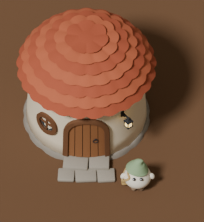
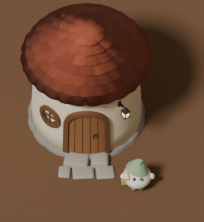
feat: cottage rework - taller walls, tile-like shingles, field-stone steps
Wall 2.1 m / roof 2.8 m wide and 0.85 m high so walls and door gain area
under the 50 degree camera; flatter tile tongues with per-tile terracotta
variation; exact dome normals on the roof cap; tapered, uneven step stones.

Claude-Session: https://claude.ai/code/session_019bN8vgtbadsSWB4L1po9wd

diff --git a/art/generators/bldg_cottage.py b/art/generators/bldg_cottage.py
@@ -69,8 +69,8 @@ except ImportError:  # pragma: no cover - outside Blender
 
 CONFIG = {
     # Walls: round plaster drum, slightly flared at the foot.
-    "wall_diameter": 2.6,          # at the top of the wall
-    "wall_height": 1.8,            # ground to where the roof sits on the wall
+    "wall_diameter": 2.4,          # at the top of the wall
+    "wall_height": 2.1,            # ground to where the roof sits on the wall
     "wall_base_flare": 0.05,       # extra diameter (fraction) at ground level
     "wall_segments": 64,
     "wall_rows": 4,
@@ -83,23 +83,23 @@ CONFIG = {
     # Roof: overhanging dome of shingle rings with rounded tile tongues.
     # The 50 degree game camera looks over the eave: the door crown stays visible
     # only while the eave hangs higher than about overhang * tan(50 deg) above it.
-    "roof_eave_diameter": 3.0,     # dome base, without the shingle lip
+    "roof_eave_diameter": 2.8,     # dome base, without the shingle lip
     "roof_eave_drop": 0.03,        # dome base sits this far below the wall top
     "roof_eave_slope_deg": 22.0,   # dome parameter at the eave: 0 = vertical skirt, higher = flatter eave
-    "roof_height": 1.0,            # dome base to apex
+    "roof_height": 0.85,           # dome base to apex
     "roof_shape_exponent": 2.0,    # superellipse: 2 = ellipse, higher = fuller shoulder
     "roof_rings": 7,
     "roof_cap_fraction": 0.1,      # share of the profile length kept as a smooth top cap
-    "roof_lip": 0.07,              # each ring's lower edge stands out this far (at a tile centre)
-    "roof_tile_bulge": 0.7,        # share of the lip lost towards the joints -> visible single tiles
+    "roof_lip": 0.09,              # each ring's lower edge stands out this far (at a tile centre)
+    "roof_tile_bulge": 0.35,        # share of the lip lost towards the joints -> visible single tiles
     "roof_tuck": 0.04,             # the next ring starts this far up under the lip
-    "roof_tile_width": 0.38,       # target tile width along a ring's lower edge
-    "roof_scallop": 0.05,          # tile tongues hang this far below the joints
-    "roof_eave_thickness": 0.06,
+    "roof_tile_width": 0.32,       # target tile width along a ring's lower edge
+    "roof_scallop": 0.025,         # tile tongues hang this far below the joints
+    "roof_eave_thickness": 0.1,
     "roof_segments": 96,
     # Arched plank door towards the front.
     "door_width": 0.8,             # visible leaf width
-    "door_height": 1.15,           # visible sill to arch crown
+    "door_height": 1.3,            # visible sill to arch crown
     "door_arch_rise": 0.4,         # = door_width / 2 -> round arch
     "door_planks": 5,
     "door_plank_gap": 0.016,
@@ -108,7 +108,7 @@ CONFIG = {
     "door_backing_recess": 0.012,  # dark backing between the planks sits this far behind them
     "door_ring_diameter": 0.13,
     "door_ring_tube": 0.02,
-    "door_ring_height": 0.58,      # stud above the sill
+    "door_ring_height": 0.64,      # stud above the sill
     "door_ring_offset": 0.2,       # from the door centre towards the latch side (+X)
     "door_sill_gap": 0.006,        # air between upper step and door/frame
     # Wooden frame around the door opening.
@@ -118,7 +118,7 @@ CONFIG = {
     "frame_arch_samples": 18,
     # Round window with a cross (viewer's left).
     "window_azimuth_deg": -42.0,
-    "window_center_height": 0.92,
+    "window_center_height": 1.08,
     "window_opening_diameter": 0.38,  # visible glass
     "window_frame_width": 0.075,
     "window_frame_proud": 0.07,
@@ -128,7 +128,7 @@ CONFIG = {
     "window_samples": 32,
     # Wall lantern on an iron bracket (viewer's right).
     "lantern_azimuth_deg": 38.0,
-    "lantern_mount_height": 1.3,
+    "lantern_mount_height": 1.55,
     "lantern_arm_length": 0.27,
     "lantern_arm_thickness": 0.03,
     "lantern_glass": (0.12, 0.12, 0.15),   # x, y, z
@@ -138,14 +138,16 @@ CONFIG = {
     "step_rise": 0.09,
     "step_depth": 0.3,
     "step_widths": (1.3, 1.05),
-    "step_stone_splits": ((0.3, 0.38, 0.32), (0.55, 0.45)),  # fractions of the step width
+    "step_stone_splits": ((0.24, 0.41, 0.35), (0.58, 0.42)),  # fractions of the step width
     "step_gap": 0.015,
     "step_bury": 0.16,             # upper step reaches this far into the wall
     "step_tuck": 0.06,             # lower steps reach this far under the step above
-    "step_bevel": 0.03,
-    "step_height_jitter": 0.02,    # stones only sink, never rise towards the door
-    "step_front_jitter": 0.03,
-    "step_yaw_jitter_deg": 7.0,
+    "step_bevel": 0.04,
+    "step_height_jitter": 0.035,   # stones only sink, never rise towards the door
+    "step_front_jitter": 0.06,
+    "step_yaw_jitter_deg": 10.0,
+    "step_top_taper": (0.80, 0.92),  # top face shrinks to this share of the foot -> rounded field stones
+    "step_top_wobble": 0.018,      # top corners sink by up to this much
     # Mesh budget and shading.
     "triangle_budget": 8000,       # art/PIPELINE.md section 7
     "smooth_angle_deg": 45.0,      # edges sharper than this stay crisp
@@ -174,8 +176,9 @@ CONFIG = {
     # albedo_color; converted to linear for Blender and the GLB.
     "colors": {
         "plaster_cream": (0.93, 0.88, 0.78, 1.0),
-        "roof_terracotta": (0.68, 0.33, 0.22, 1.0),
-        "roof_terracotta_alt": (0.74, 0.39, 0.26, 1.0),
+        "roof_terracotta": (0.63, 0.31, 0.21, 1.0),
+        "roof_terracotta_alt": (0.67, 0.34, 0.23, 1.0),
+        "roof_terracotta_dark": (0.59, 0.28, 0.19, 1.0),
         "roof_underside": (0.36, 0.17, 0.11, 1.0),
         "wood_door": (0.56, 0.37, 0.22, 1.0),
         "wood_dark": (0.24, 0.15, 0.09, 1.0),
@@ -209,7 +212,8 @@ SEPARATE_PARTS = (
 )
 
 # Roof material slots.
-ROOF_MAT_A, ROOF_MAT_B, ROOF_MAT_UNDER = 0, 1, 2
+ROOF_MAT_A, ROOF_MAT_B, ROOF_MAT_UNDER, ROOF_MAT_DARK = 0, 1, 2, 3
+ROOF_TILE_MATERIALS = (ROOF_MAT_A, ROOF_MAT_B, ROOF_MAT_DARK)
 
 
 # ---------------------------------------------------------------------------
@@ -380,8 +384,9 @@ def step_stones(config: dict, dims: dict) -> list:
 def roof_rows(config: dict, dims: dict) -> list:
     """Roof as rows of points from apex to the hidden underside centre.
 
-    Returns ``(material_index, points)`` per row; the material belongs to the
-    band between the previous row and this one. Rows are single points (apex,
+    Returns ``(material, points)`` per row; the material belongs to the band
+    between the previous row and this one - one index, or one per segment
+    (tile rows: each tile gets one of ``ROOF_TILE_MATERIALS``). Rows are single points (apex,
     underside centre) or rings of ``roof_segments`` points.
     """
     segments = config["roof_segments"]
@@ -420,7 +425,11 @@ def roof_rows(config: dict, dims: dict) -> list:
         r_bottom = roof_profile_at(table, s_bottom)[0]
         tiles = max(5, round(2.0 * math.pi * r_bottom / config["roof_tile_width"]))
         phase = 0.5 * math.pi * (k % 2)
-        material = ROOF_MAT_A if k % 2 == 0 else ROOF_MAT_B
+        material = []
+        for j in range(segments):
+            phi_mid = 2.0 * math.pi * (j + 0.5) / segments
+            tile = math.floor((tiles * phi_mid / 2.0 + phase) / math.pi) % tiles
+            material.append(ROOF_TILE_MATERIALS[int(_hash01(k, tile, 5.0) * len(ROOF_TILE_MATERIALS))])
         if k > 0:  # back up under the previous ring's lip
             rows.append((ROOF_MAT_UNDER, ring(s_top - config["roof_tuck"], 0.0, 0.0)))
         rows.append((material, ring(s_bottom, 1.0, 1.0, tiles, phase)))
@@ -552,7 +561,8 @@ def _materials(config: dict, keys) -> list:
     colors = config["colors"]
     names = {
         "plaster_cream": "Mat_PlasterCream", "roof_terracotta": "Mat_RoofTerracotta",
-        "roof_terracotta_alt": "Mat_RoofTerracottaAlt", "roof_underside": "Mat_RoofUnderside",
+        "roof_terracotta_alt": "Mat_RoofTerracottaAlt", "roof_terracotta_dark": "Mat_RoofTerracottaDark",
+        "roof_underside": "Mat_RoofUnderside",
         "wood_door": "Mat_WoodDoor", "wood_dark": "Mat_WoodDark", "wood_frame": "Mat_WoodFrame",
         "iron": "Mat_Iron", "window_glass": "Mat_WindowGlass", "lantern_glow": "Mat_LanternGlow",
         "stone": "Mat_Stone", "stone_base": "Mat_StoneBase", "preview_ground": "Mat_PreviewGround",
@@ -609,8 +619,8 @@ def _bridge_rows(bm, rows, materials, loop: bool = False) -> None:
         else:
             faces = [bm.faces.new((a[j], a[(j + 1) % len(a)], b[(j + 1) % len(b)], b[j]))
                      for j in range(len(a))]
-        for face in faces:
-            face.material_index = material
+        for j, face in enumerate(faces):
+            face.material_index = material[j] if isinstance(material, list) else material
 
 
 def _ring(radius: float, z: float, segments: int) -> list:
@@ -745,9 +755,25 @@ def build_roof(config: dict, dims: dict):
     rows = roof_rows(config, dims)
     vert_rows = [[bm.verts.new(p) for p in points] for _, points in rows]
     _bridge_rows(bm, vert_rows, [material for material, _ in rows])
-    materials = _materials(config, ["roof_terracotta", "roof_terracotta_alt", "roof_underside"])
-    return _object_from_bmesh("Roof", bm, materials, origin=(0.0, 0.0, config["wall_height"]),
-                              sharp_angle_deg=config["smooth_angle_deg"])
+    materials = _materials(config, ["roof_terracotta", "roof_terracotta_alt", "roof_underside",
+                                    "roof_terracotta_dark"])
+    obj = _object_from_bmesh("Roof", bm, materials, origin=(0.0, 0.0, config["wall_height"]),
+                             sharp_angle_deg=config["smooth_angle_deg"])
+    # The smooth top cap (apex + support rings, created first) gets the exact
+    # dome normals; interpolated fan normals showed as radial streaks.
+    table = dims["roof_profile"]
+    s_cap = table[-1][0] * config["roof_cap_fraction"]
+    normals = [(0.0, 0.0, 0.0)] * len(obj.data.vertices)
+    index = 0
+    for (_material, ring_points), share in zip(rows[:4], (0.0, 0.5, 0.9, 1.0)):
+        _, _, tr, tz = roof_profile_at(table, s_cap * share)
+        nr, nz = -tz, tr
+        for x, y, _z in ring_points:
+            r = math.hypot(x, y)
+            normals[index] = (0.0, 0.0, 1.0) if r < 1e-9 else (nr * x / r, nr * y / r, nz)
+            index += 1
+    obj.data.normals_split_custom_set_from_vertices(normals)
+    return obj
 
 
 def build_door(config: dict, dims: dict):
@@ -927,9 +953,16 @@ def build_lantern(config: dict, dims: dict) -> list:
 
 def build_steps(config: dict, dims: dict):
     bm = bmesh.new()
-    for stone in dims["steps"]:
+    lo, hi = config["step_top_taper"]
+    for i, stone in enumerate(dims["steps"]):
         verts = bmesh.ops.create_cube(bm, size=1.0)["verts"]
         bmesh.ops.scale(bm, vec=Vector(stone["extents"]), verts=verts)
+        taper = lo + (hi - lo) * _hash01(i, 7.0)
+        for corner, vert in enumerate(verts):
+            if vert.co.z > 0.0:
+                vert.co.x *= taper
+                vert.co.y *= taper
+                vert.co.z -= config["step_top_wobble"] * _hash01(i, corner, 8.0)
         bmesh.ops.rotate(bm, cent=Vector((0.0, 0.0, 0.0)), matrix=Matrix.Rotation(stone["yaw"], 3, 'Z'), verts=verts)
         bmesh.ops.translate(bm, vec=Vector(stone["center"]), verts=verts)
     bmesh.ops.bevel(

diff --git a/art/README.md b/art/README.md
@@ -225,9 +225,11 @@ Offene visuelle Befunde:
 
 Rundes Häuschen nach `PIPELINE.md` 4a: cremeweiße Putzwand (leicht
 ausgestellter Fuß) auf einem Steinsockel, überstehendes Kuppeldach aus sieben
-Terrakotta-Schindelringen mit abgerundeten Ziegelzungen, Rundbogentür aus fünf
-Planken mit Eisenring, Holzrahmen, Rundfenster mit Sprossenkreuz, Wandlaterne
-am Eisenarm, zwei Steinstufen. Ca. 7 100 Dreiecke (Budget 8 000), 12
+Terrakotta-Schindelringen mit flachen, abgerundeten Ziegelzungen (je Ziegel
+einer von drei Terrakottatönen), Rundbogentür aus fünf Planken mit Eisenring,
+Holzrahmen, Rundfenster mit Sprossenkreuz, Wandlaterne am Eisenarm, zwei
+Steinstufen aus nach oben verjüngten Feldsteinen. Wand 2,1 m hoch, Ø 2,4 m;
+Dach Ø 2,8 m, 0,85 m hoch; Tür 1,3 m. Ca. 7 100 Dreiecke (Budget 8 000), 13
 Materialien, keine Texturen.
 
 **Konventionen** (zusätzlich zu PIPELINE.md Abschnitt 2):
@@ -249,6 +251,13 @@ Materialien, keine Texturen.
 - Das Dach ist auf die 50°-Spielkamera abgestimmt: Die Traufe muss höher
   hängen als etwa Überstand × tan 50° über dem Türrahmen, sonst verdeckt sie
   die Türoberkante (erster Lauf: 0,3 m Überstand, Tür halb verdeckt).
+- Aus 50° wirkt die Dachfläche etwa `Dach-Ø × sin 50° + Dachhöhe × cos 50°`
+  hoch, die sichtbare Wand nur `Wandhöhe × cos 50°`. Mehr Wand im Bild gibt es
+  deshalb nur über eine höhere Wand und einen kleineren Dachdurchmesser, nicht
+  über ein flacheres Dach.
+- Die glatte Dachkappe (Spitze und drei Stützringe, zuerst erzeugt) bekommt
+  die exakten Kuppelnormalen als eigene Normalen; interpolierte
+  Fächer-Normalen zeigten radiale Streifen.
 
 **Aufruf:**
 
@@ -272,16 +281,25 @@ Kameras/Lichter, `Door` bei glTF +Z). Die reinen Geometriefunktionen
 (`derive_dimensions`, `roof_rows`, `step_stones`, `inspect_glb`) laufen ohne
 Blender.
 
-**Stand** (Blender 5.2.1 LTS, Nutzer-PC, `--views`): Exit 0; 7 128 Dreiecke
-(GLB identisch), Höhe 2,77 m, tiefster Punkt 0,0000, 0 von 15 Paaren
-durchdringen sich, Door-Node glTF (−0,43; 0,19; 1,31). Bei 1× ist das Häuschen
-175 px hoch, der Gartenwicht 32 px. Alle Bilder angesehen, Kopien unter
-`docs/previews/bldg_cottage*.png`. Ausstehend (NOT RUN): Godot-Import,
-Handy-Ansicht.
+**Stand** nach Nacharbeit S8b (Blender 5.2.1 LTS, Nutzer-PC, `--views`):
+Exit 0; 7 128 Dreiecke (GLB identisch), Höhe 2,96 m, tiefster Punkt 0,0000,
+0 von 15 Paaren durchdringen sich, Door-Node glTF (−0,43; 0,19; 1,20). Bei 1×
+ist das Häuschen 177 px hoch, der Gartenwicht 32 px. Alle fünf Bilder
+angesehen, Kopien unter `docs/previews/bldg_cottage*.png`. Ausstehend
+(NOT RUN): Godot-Import, Handy-Ansicht.
+
+Behoben in S8b: Dach dominierte die Silhouette (Wand jetzt 2,1 statt 1,8 m,
+Dach-Ø 2,8 statt 3,0 m, Dachhöhe 0,85 statt 1,0 m); Schindeln wirkten wie
+dünne Blütenblätter (flachere Zungen, dickere Lippe und Traufe, dunkleres
+Terrakotta mit Farbstreuung je Ziegel); radiale Streifen in der Kappe;
+gleichförmige Stufen.
 
 Offene visuelle Befunde:
 
-1. Aus 50° nimmt das Dach gut die Hälfte der Gebäudefläche ein; das folgt aus
-   der Kamera, ist aber stärker als in der Referenz.
-2. Schwache radiale Schattierungslinien in der glatten Dachkappe.
-3. Die Stufensteine wirken noch recht regelmäßig und blockhaft.
+1. Aus 50° ist das Dach noch die größte Fläche; weniger geht nur mit
+   flacherer Spielkamera (Entscheidung zur Kamera, nicht zum Modell).
+2. Die glatte Kappe liegt als kleiner flacher „Knopf“ auf dem obersten
+   Schindelring; in Seiten- und Rückansicht sichtbar, aus der Spielkamera
+   unauffällig.
+3. Große glatte Wandflächen an Seite und Rückseite; die Referenz belebt sie
+   mit Ranken und Pflanzen (Szenendekoration in S4, nicht im Generator).

diff --git a/art/PIPELINE.md b/art/PIPELINE.md
@@ -217,7 +217,7 @@ Sessions parallel, wird `docs/STATUS.md` beim Pull zusammengeführt statt
 | S7 | Icon-Renderer | DeepSeek · low | S2 | offen |
 | S8 | Gebäude-Generator: Wurzelheim-Häuschen | Claude · high | – | ✅ `4e1b8d0`, Nacharbeit S8b |
 | S9 | Station: Steinofen mit Kessel | DeepSeek · medium, Sichtprüfung Claude · medium | S8 | offen |
-| S8b | Häuschen-Nacharbeit: Dach und Stufen | Claude · medium | S8 | offen |
+| S8b | Häuschen-Nacharbeit: Dach und Stufen | Claude · medium | S8 | ✅ |
 
 ### S0 – Pakete ablegen (Nutzer) ✅
 
